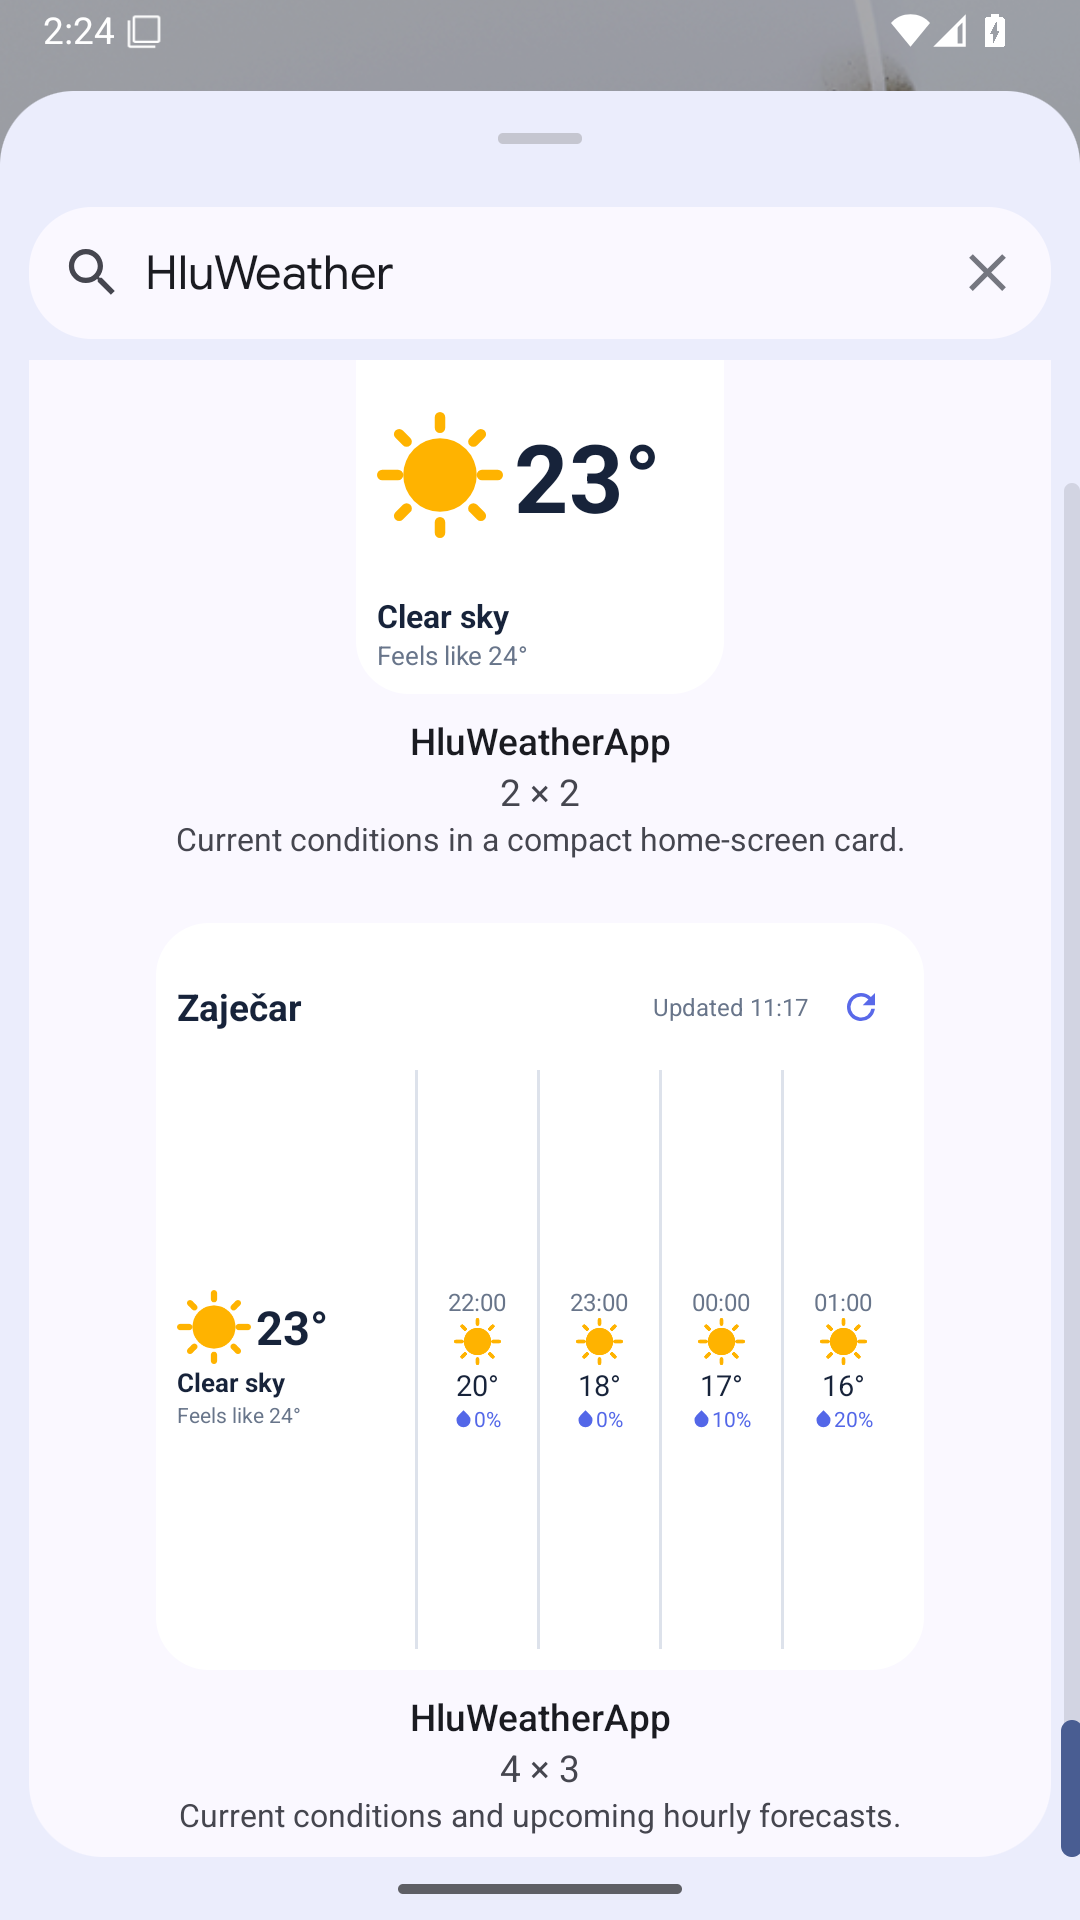
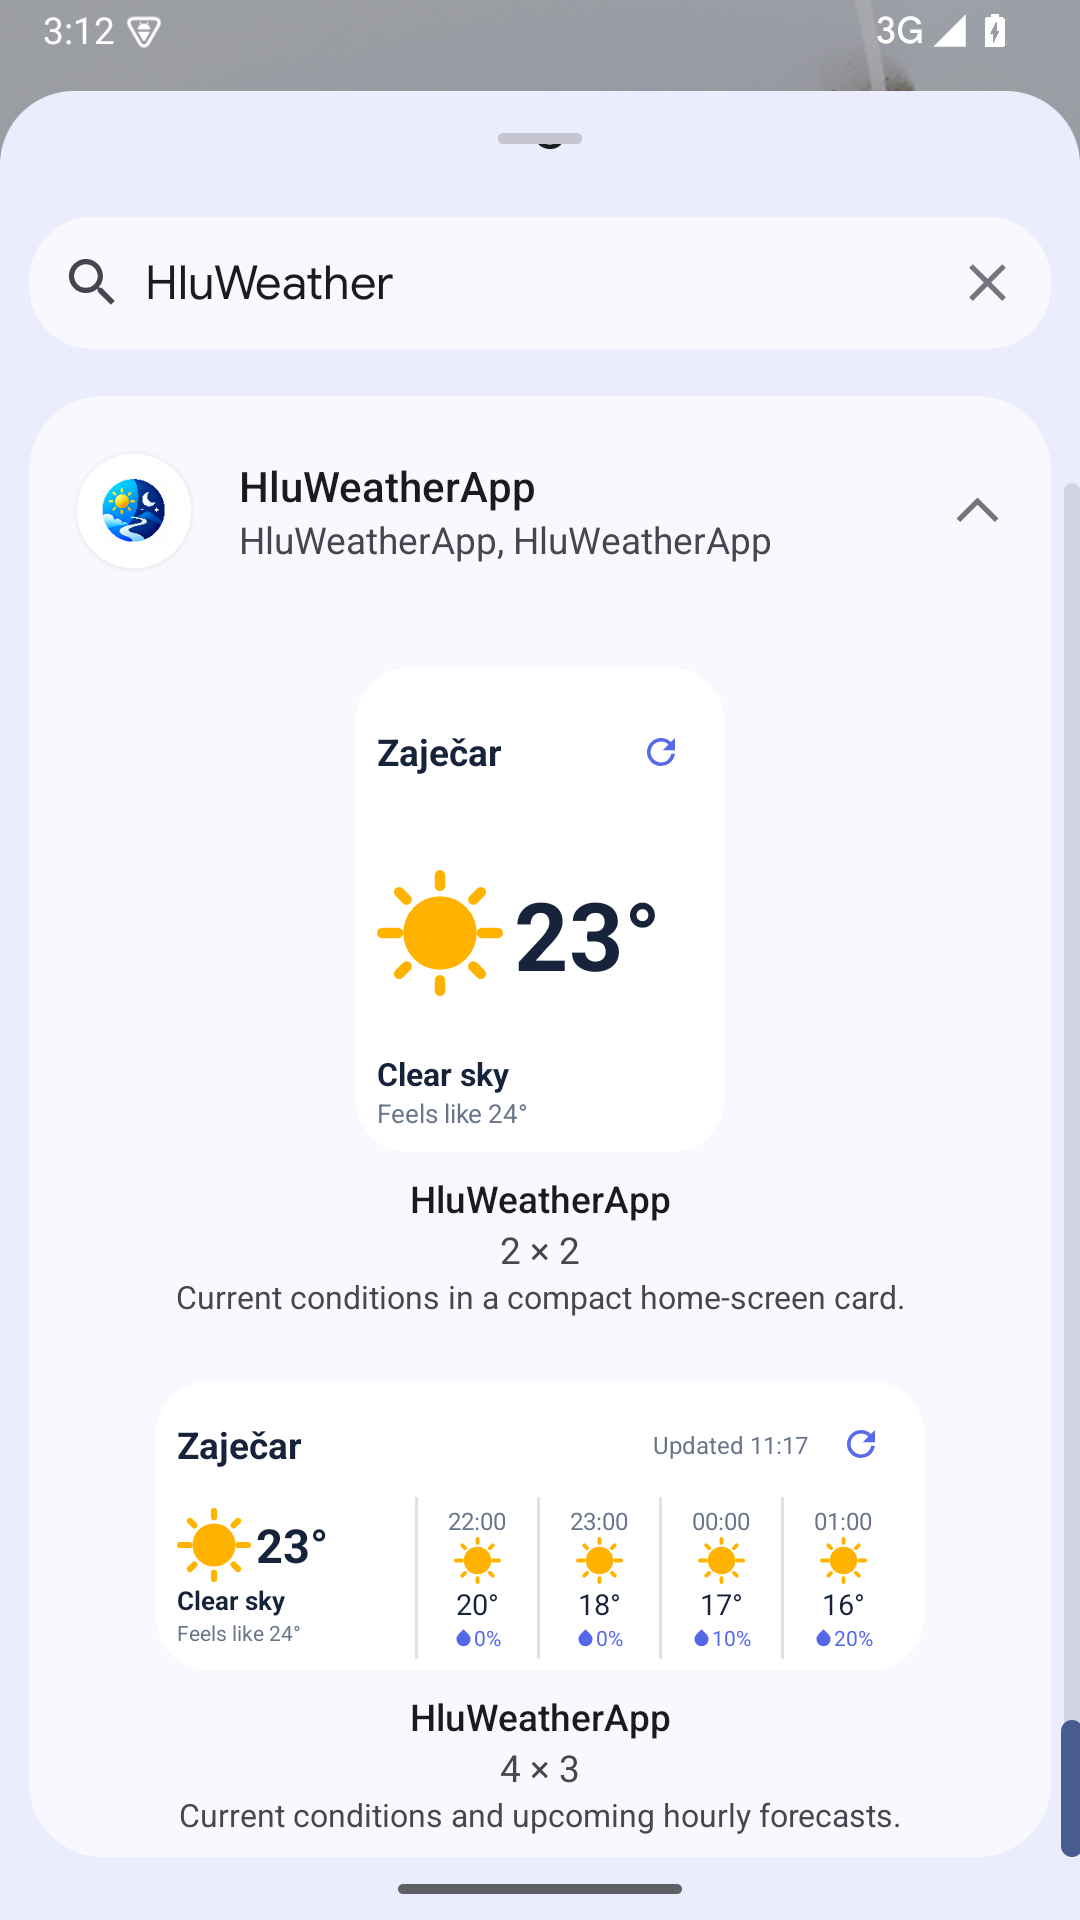
docs: record API 35 widget launcher QA

diff --git a/docs/widgets/launcher-qa.md b/docs/widgets/launcher-qa.md
@@ -5,9 +5,9 @@
 Long-press an empty area of the home screen, open **Widgets**, search for HluWeather (shown as **HluWeatherApp** on the tested Pixel Launcher), and add either preview:
 
 - Provider labels declared by the app: **HluWeather · Current weather** (2×2 target; current conditions only) and **HluWeather · Hourly forecast** (4×2 target; current conditions plus three to five upcoming hours).
-- On the tested API 35 Pixel Launcher, the picker groups both under the app label **HluWeatherApp** and showed **2 × 2** and **4 × 3**. That capture predates the medium provider's `minHeight`/`minResizeHeight` correction to 110 dp; the provider still declares `targetCellHeight=2`. The picker result did not match the 4×2 target, so this remains an unresolved runtime discrepancy—not a pass. Recheck on the target launcher after the metadata correction.
+- On API 35 Pixel Launcher, the picker groups both under **HluWeatherApp**. The current medium provider declares a 4×2 target and 260×110 dp minimum, but the launcher still shows and places it as **4 × 3** after installing the corrected APK and rebooting the AVD. This is an unresolved runtime mismatch, not a 4×2 pass; see the dated result below.
 
-Both are resizable and need no configuration screen. They share the app's selected provider, location, temperature unit, and theme. Change those in HluWeather; installed widgets re-render from matching cached weather. Explicit Light/Dark app themes take precedence over Android appearance; System follows it. Tapping the card or location opens the main weather screen. The separate refresh control requests an update without opening the app.
+Both providers are declared resizable and have no configuration activity. They share the app's selected provider, location, temperature unit, and theme. Change those in HluWeather; installed widgets re-render from matching cached weather. Explicit Light/Dark app themes take precedence over Android appearance; System follows it. Tapping the card or location opens the main weather screen. The separate refresh control requests an update without opening the app.
 
 Widgets render matching cached weather first. Refresh attempts preserve the forecast's actual update time; offline or failed refreshes keep matching data and identify stale/failed status. Shared periodic work is nominally every 60 minutes with a connected-network constraint; Doze, connectivity, and Android scheduling can delay it. The interval is approximate, not a deadline.
 
@@ -16,7 +16,7 @@ In Track Me mode, the widget uses a fix the app already obtained, including a pa
 ## Launcher QA checklist
 
 - [ ] **Picker and placement:** confirm both previews, the actual launcher labels, descriptions, and sizes; compare with the declared provider labels above. Add one of each and confirm neither launches a configuration step.
-- [ ] **Resize:** exercise the small widget's minimum (110×110 dp) and compact/normal/wide branches; keep location, icon, temperature, and refresh visible, with secondary rows dropped before clipping. Resize medium down to its compact 260×110 dp minimum (runtime confirmation pending) and across three-, four-, and five-hour branches (about 260, 320, and 400 dp wide at 1× font scale); verify dividers and no horizontal overflow. The small widget has no hourly strip.
+- [ ] **Resize:** exercise the small widget's minimum (110×110 dp) and compact/normal/wide branches; keep location, icon, temperature, and refresh visible, with secondary rows dropped before clipping. Resize medium down to its compact 260×110 dp minimum and across three-, four-, and five-hour branches (about 260, 320, and 400 dp wide at 1× font scale); verify dividers and no horizontal overflow. API 35 currently reports 4×3 for medium and has not verified compact-height or width branches; see runtime result. The small widget has no hourly strip.
 - [ ] **Names and font scale:** use a long saved-location name and larger Android font/display size; confirm end ellipsis leaves refresh available, temperatures remain legible, and lower-priority content yields space.
 - [ ] **TalkBack:** check location, condition and unit-bearing temperature, hourly time/temperature/probability, and the “Refresh weather” action; decorative icons should not be announced twice. Missing precipitation must not sound like 0%.
 - [ ] **Settings synchronization:** change provider, saved location/Track Me mode, Celsius/Fahrenheit, and Light/Dark/System. Confirm correct identity/units/colors update from cache without requiring a successful fetch; in System mode, change Android appearance and confirm both widget sizes follow it.
@@ -43,9 +43,7 @@ Runtime checks are recorded separately below; “not run” means no device-leve
 
 | Runtime target | Result |
 | --- | --- |
-| API 28 launcher | **NOT RUN** — no API 28 device, AVD, platform, or system image was available locally; no download was attempted. |
[1 lines of base64/hex data omitted]
+| API 28 launcher | **NOT RUN** — no API 28 device, AVD, platform, or system image is installed locally; no download was attempted. |
[1 lines of base64/hex data omitted]
 
[1 lines of base64/hex data omitted]
-
-The API 35 runtime did **not** exercise resizing branches, TalkBack/font scaling, theme or settings synchronization, offline cache/failure, Track Me fallback, process death/reboot, or last-widget work cancellation. Use the checklist above for those device checks; Robolectric renders/tests are not substitutes.
+The existing small instance remained visible at 2×2 after the APK update. The placed medium widget rendered the no-location state without visible overflow at its actual 4×3 size. Tapping its refresh control left `com.google.android.apps.nexuslauncher/.NexusLauncherActivity` in the foreground. The AVD reboot preserved the pre-existing widget instances. A medium resize overlay appeared, but ADB drag attempts did not change the bounds; compact two-row resizing and the available 260/320/400 dp width branches are **NOT RUN / unverified**. The emulator log showed its startup helper using `/home/homoludens/bin/adb` v36 while SDK platform-tools v41 was in use, causing an ADB server-version mismatch; repeat resize checks with one consistent ADB client before attributing that gesture result to the widget. No saved location was configured, so live weather, cache/offline/failure, settings/theme/unit sync, and Track Me checks were **NOT RUN**; no provider request was made. TalkBack/font scaling and last-widget work cancellation are also **NOT RUN**. An initial Android System UI “isn't responding” prompt recovered after choosing **Wait**; later launcher checks proceeded. Robolectric examples/tests are not substitutes for these device checks.

diff --git a/openspec/changes/add-home-screen-weather-widgets/tasks.md b/openspec/changes/add-home-screen-weather-widgets/tasks.md
@@ -55,5 +55,5 @@ High-complexity tasks are limited to interrupted-refresh recovery, concurrent re
 - [x] 6.4 [low] Perform final Google debug compilation and packaging only; verify `ANDROID_HOME=/home/homoludens/Android/Sdk ANDROID_SDK_ROOT=/home/homoludens/Android/Sdk ./gradlew :app:assembleGoogleDebug` succeeds without release build or signing.
[2 lines of base64/hex data omitted]
-- [x] 6.5 [low] Add a concise widget usage and launcher QA checklist covering picker entries, resize, font scaling, TalkBack, theme, manual refresh, offline cache, Track Me fallback without GPS, reboot/process death, and removal of the last widget; verify on API 28 and a modern Android launcher when available, and record screenshots/results plus any runtime checks that could not be performed without claiming them as tested.
-  - Validation note (2026-10-29): Added `docs/widgets/launcher-qa.md`, the API 35 Pixel Launcher captures under `docs/widgets/launcher/`, and links to the distinct Robolectric examples/reproduction command. On a fresh API 35 Pixel 2 AVD, both previews appeared and both widgets were added without configuration; the picker displayed 2 × 2 and 4 × 3 (medium provider targets height 2; launcher discrepancy recorded). Both rendered the no-location state, and small-widget refresh left the launcher foreground. API 28 was NOT RUN: no local device, AVD, platform, or system image; no download attempted. TalkBack/font scaling, settings/theme sync, cached/offline/failure data, Track Me, reboot/process death, resizing, and last-instance work cancellation were NOT RUN at runtime and remain in the guide checklist.
+- [ ] 6.5 [low] Add a concise widget usage and launcher QA checklist covering picker entries, resize, font scaling, TalkBack, theme, manual refresh, offline cache, Track Me fallback without GPS, reboot/process death, and removal of the last widget; verify on API 28 and a modern Android launcher when available, and record screenshots/results plus any runtime checks that could not be performed without claiming them as tested.
[1 lines of base64/hex data omitted]
